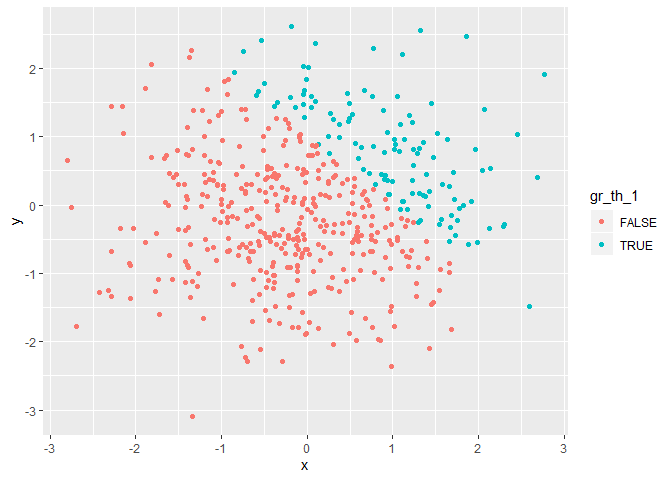
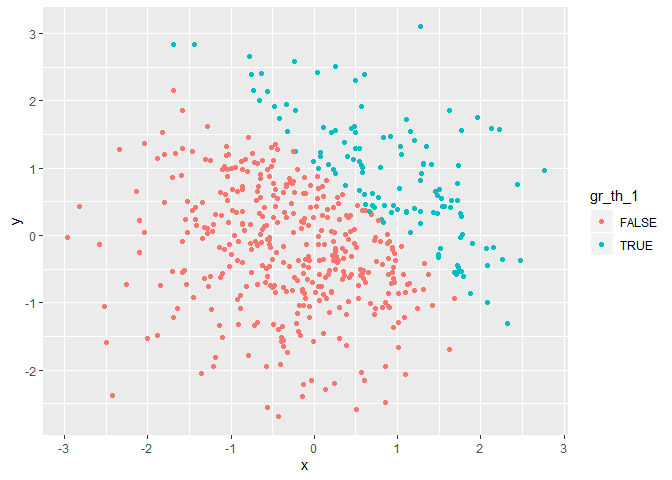
Updated scatterplots and descriptions

diff --git a/p8105_hw1_jt3175.md b/p8105_hw1_jt3175.md
@@ -41,7 +41,7 @@ for the character and factor
 mean(pull(simple_df1, sample_norm))
 ```
 
-    ## [1] -0.3065181
+    ## [1] -0.3087453
 
 ``` r
 mean(pull(simple_df1, gr_th_0))
@@ -119,34 +119,34 @@ rs_x_log_to_fac_to_num = log_to_fac_to_num * pull(simple_df1, sample_norm)
 log_to_num
 ```
 
-    ## [1] 1 1 1 1 0 0 0 0
+    ## [1] 0 1 0 1 0 1 0 1
 
 ``` r
 log_to_fac
 ```
 
-    ## [1] TRUE  TRUE  TRUE  TRUE  FALSE FALSE FALSE FALSE
+    ## [1] FALSE TRUE  FALSE TRUE  FALSE TRUE  FALSE TRUE 
     ## Levels: FALSE TRUE
 
 ``` r
 log_to_fac_to_num
 ```
 
-    ## [1] 2 2 2 2 1 1 1 1
+    ## [1] 1 2 1 2 1 2 1 2
 
 ``` r
 rs_x_log_to_num
 ```
 
-    ## [1] 1.041374290 0.576548371 0.750584862 0.009014051 0.000000000 0.000000000
-    ## [7] 0.000000000 0.000000000
+    ## [1] 0.00000000 0.40144232 0.00000000 1.42485088 0.00000000 0.55577700
+    ## [7] 0.00000000 0.08025077
 
 ``` r
 rs_x_log_to_fac_to_num
 ```
 
-    ## [1]  2.0827486  1.1530967  1.5011697  0.0180281 -0.5152495 -1.1698918
-    ## [7] -1.8563016 -1.2882238
+    ## [1] -0.9423926  0.8028846 -0.8403392  2.8497018 -2.5159142  1.1115540
+    ## [7] -0.6336377  0.1605015
 
 ## Problem 2
 
@@ -162,15 +162,18 @@ simple_df2 = tibble(
 
 The above dataframe contains 5 variables *(x, y, gr\_th\_1, log\_num,
 log\_fac)* of 500 observations each. X and y are both normally
-distributed variables. X has a mean of -0.0077381, median of -0.0495546,
-and standard deviation of 1.022198. The variable *gr\_th\_1* represents
-whether x + y is greater than 1. There are 117/500 cases where x + y is
+distributed variables. X has a mean of -0.0129887, median of -0.0455045,
+and standard deviation of 1.0162825. The variable *gr\_th\_1* represents
+whether x + y is greater than 1. There are 124/500 cases where x + y is
 greater than 1.
 
 Below are three scatterplots of y vs x. On the first, points are colored
 using the logical variable. The second and third scatterplots color
-points using the numeric and factor variables, respectively. Comment
-here on the color scales.
+points using the numeric and factor variables, respectively. Both the
+logical and factor color scales are binary (producing 2 solid colors).
+However, use of the numeric variable for coloring produces a gradient
+that ranges over the values (0 to 1), but only 2 colors are displayed in
+the scatterplot because we only have 2 values represented.
 
 ``` r
 ggplot(simple_df2, aes(x = x, y = y, color=gr_th_1)) + geom_point()
